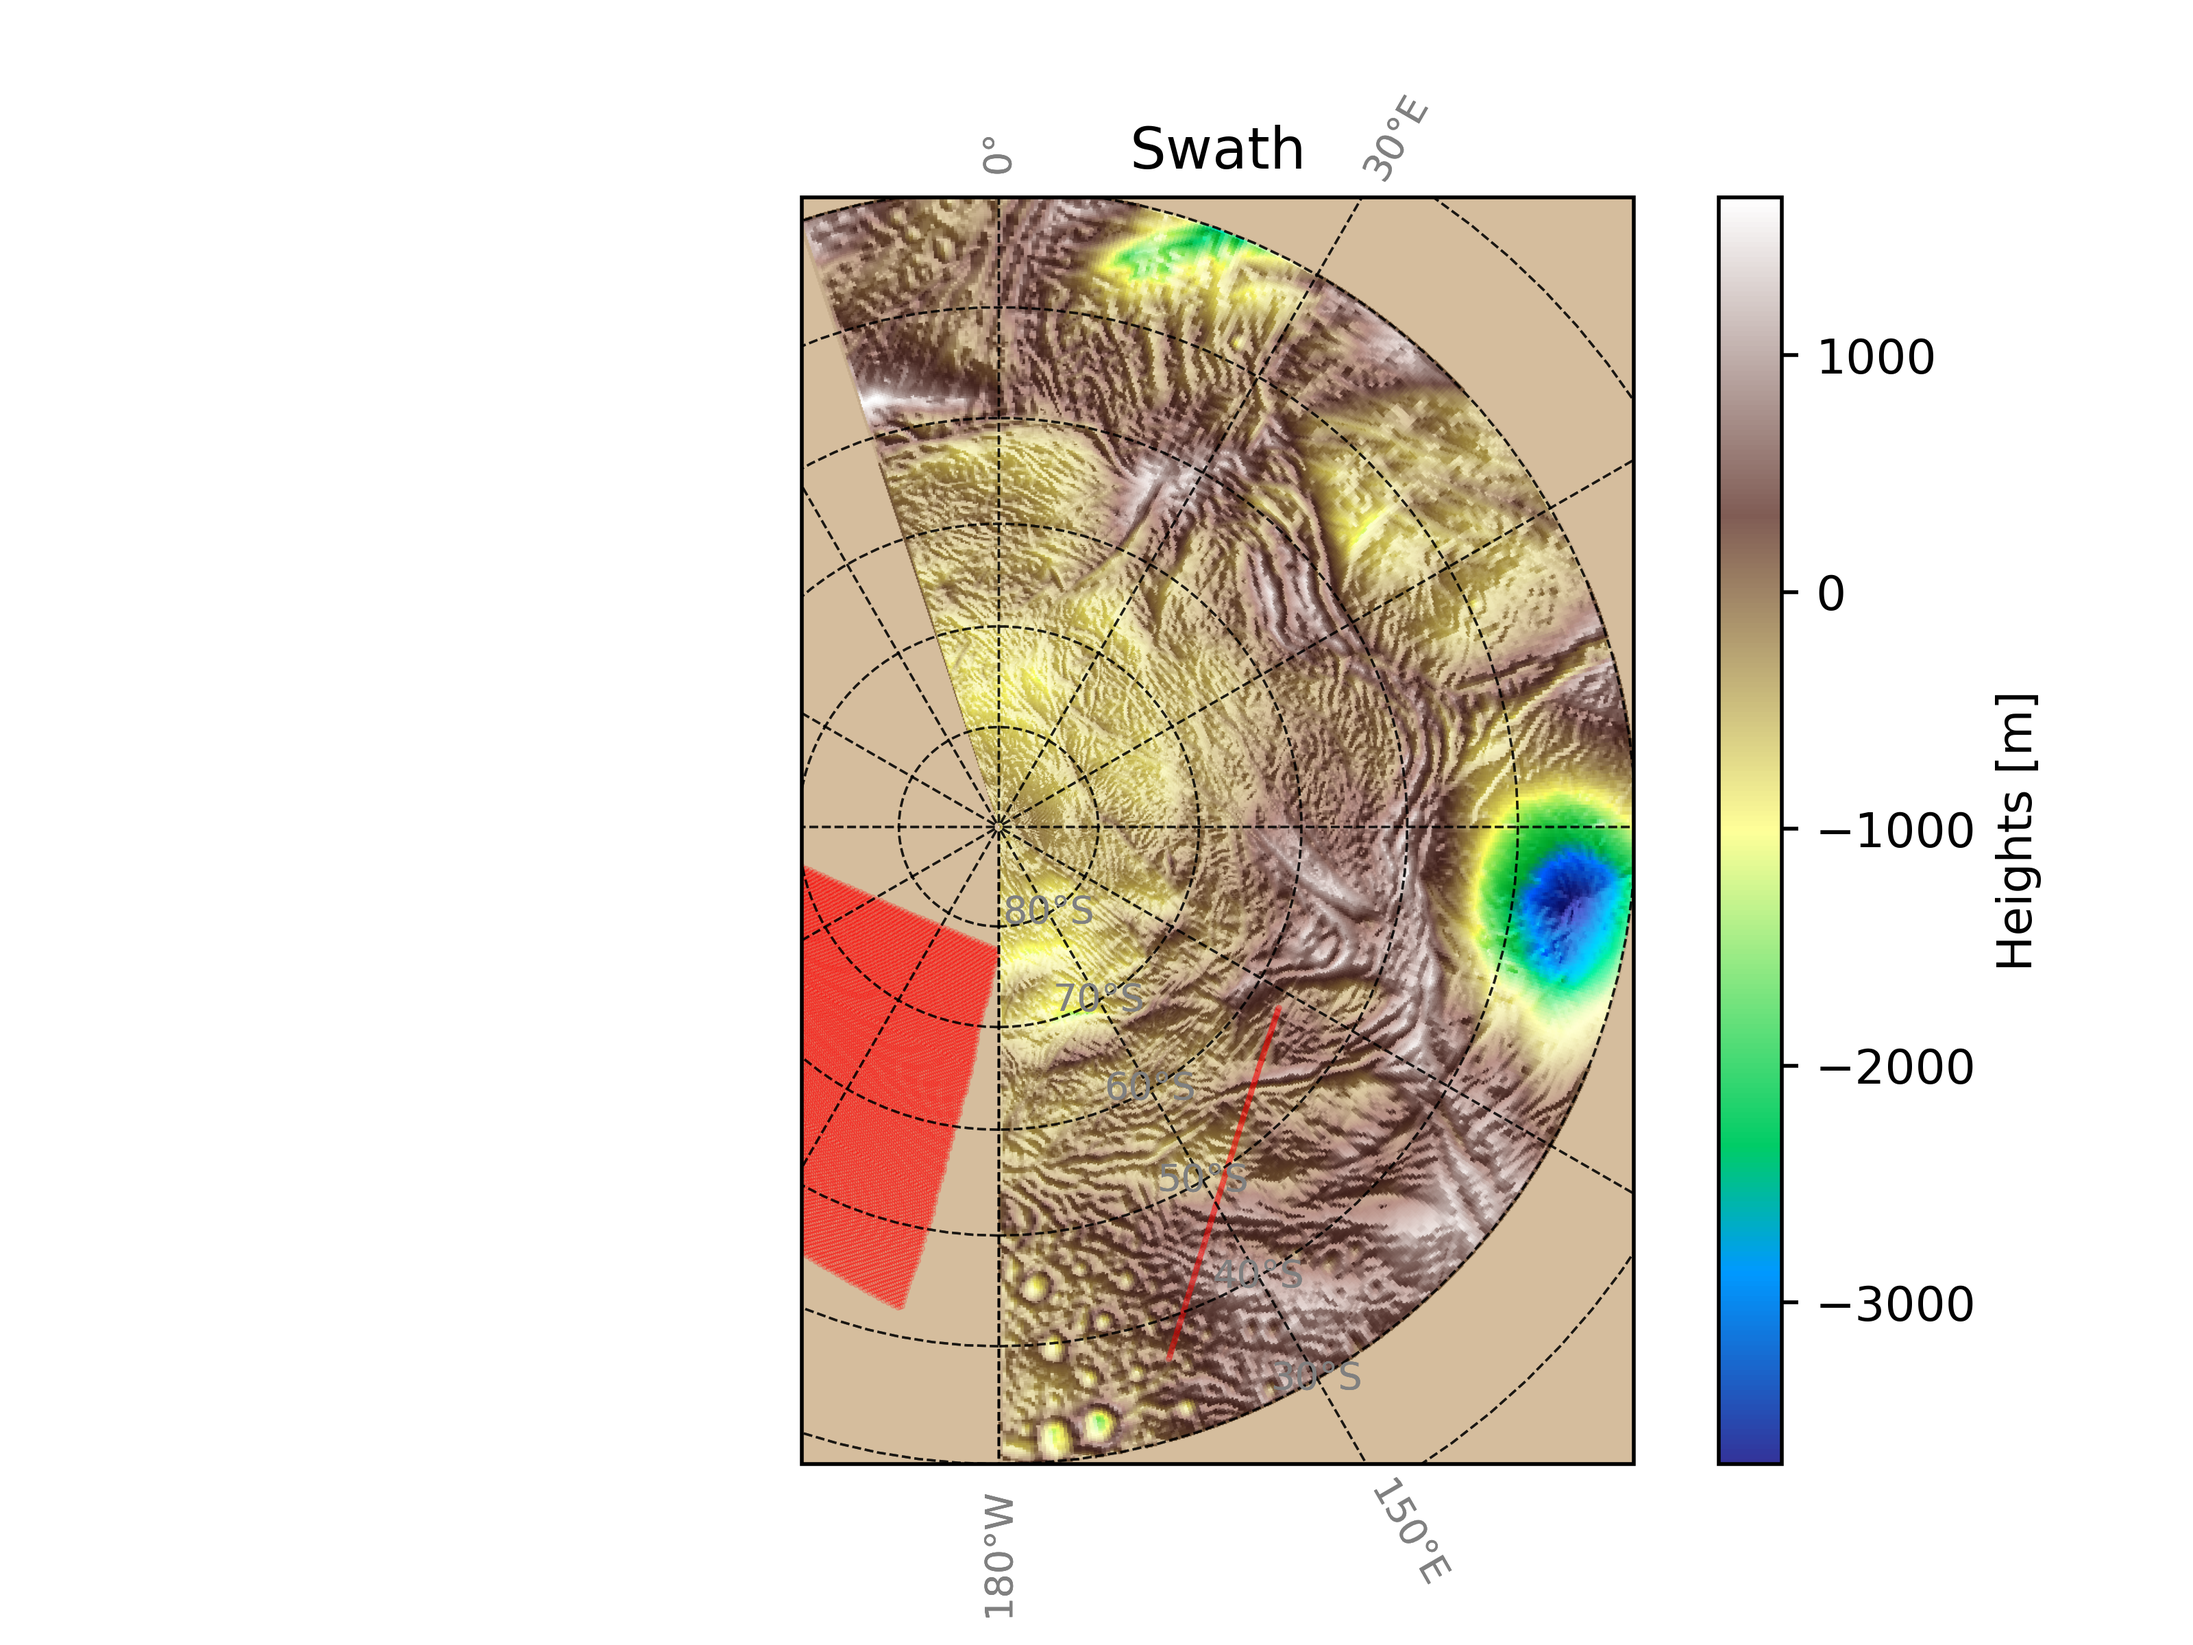
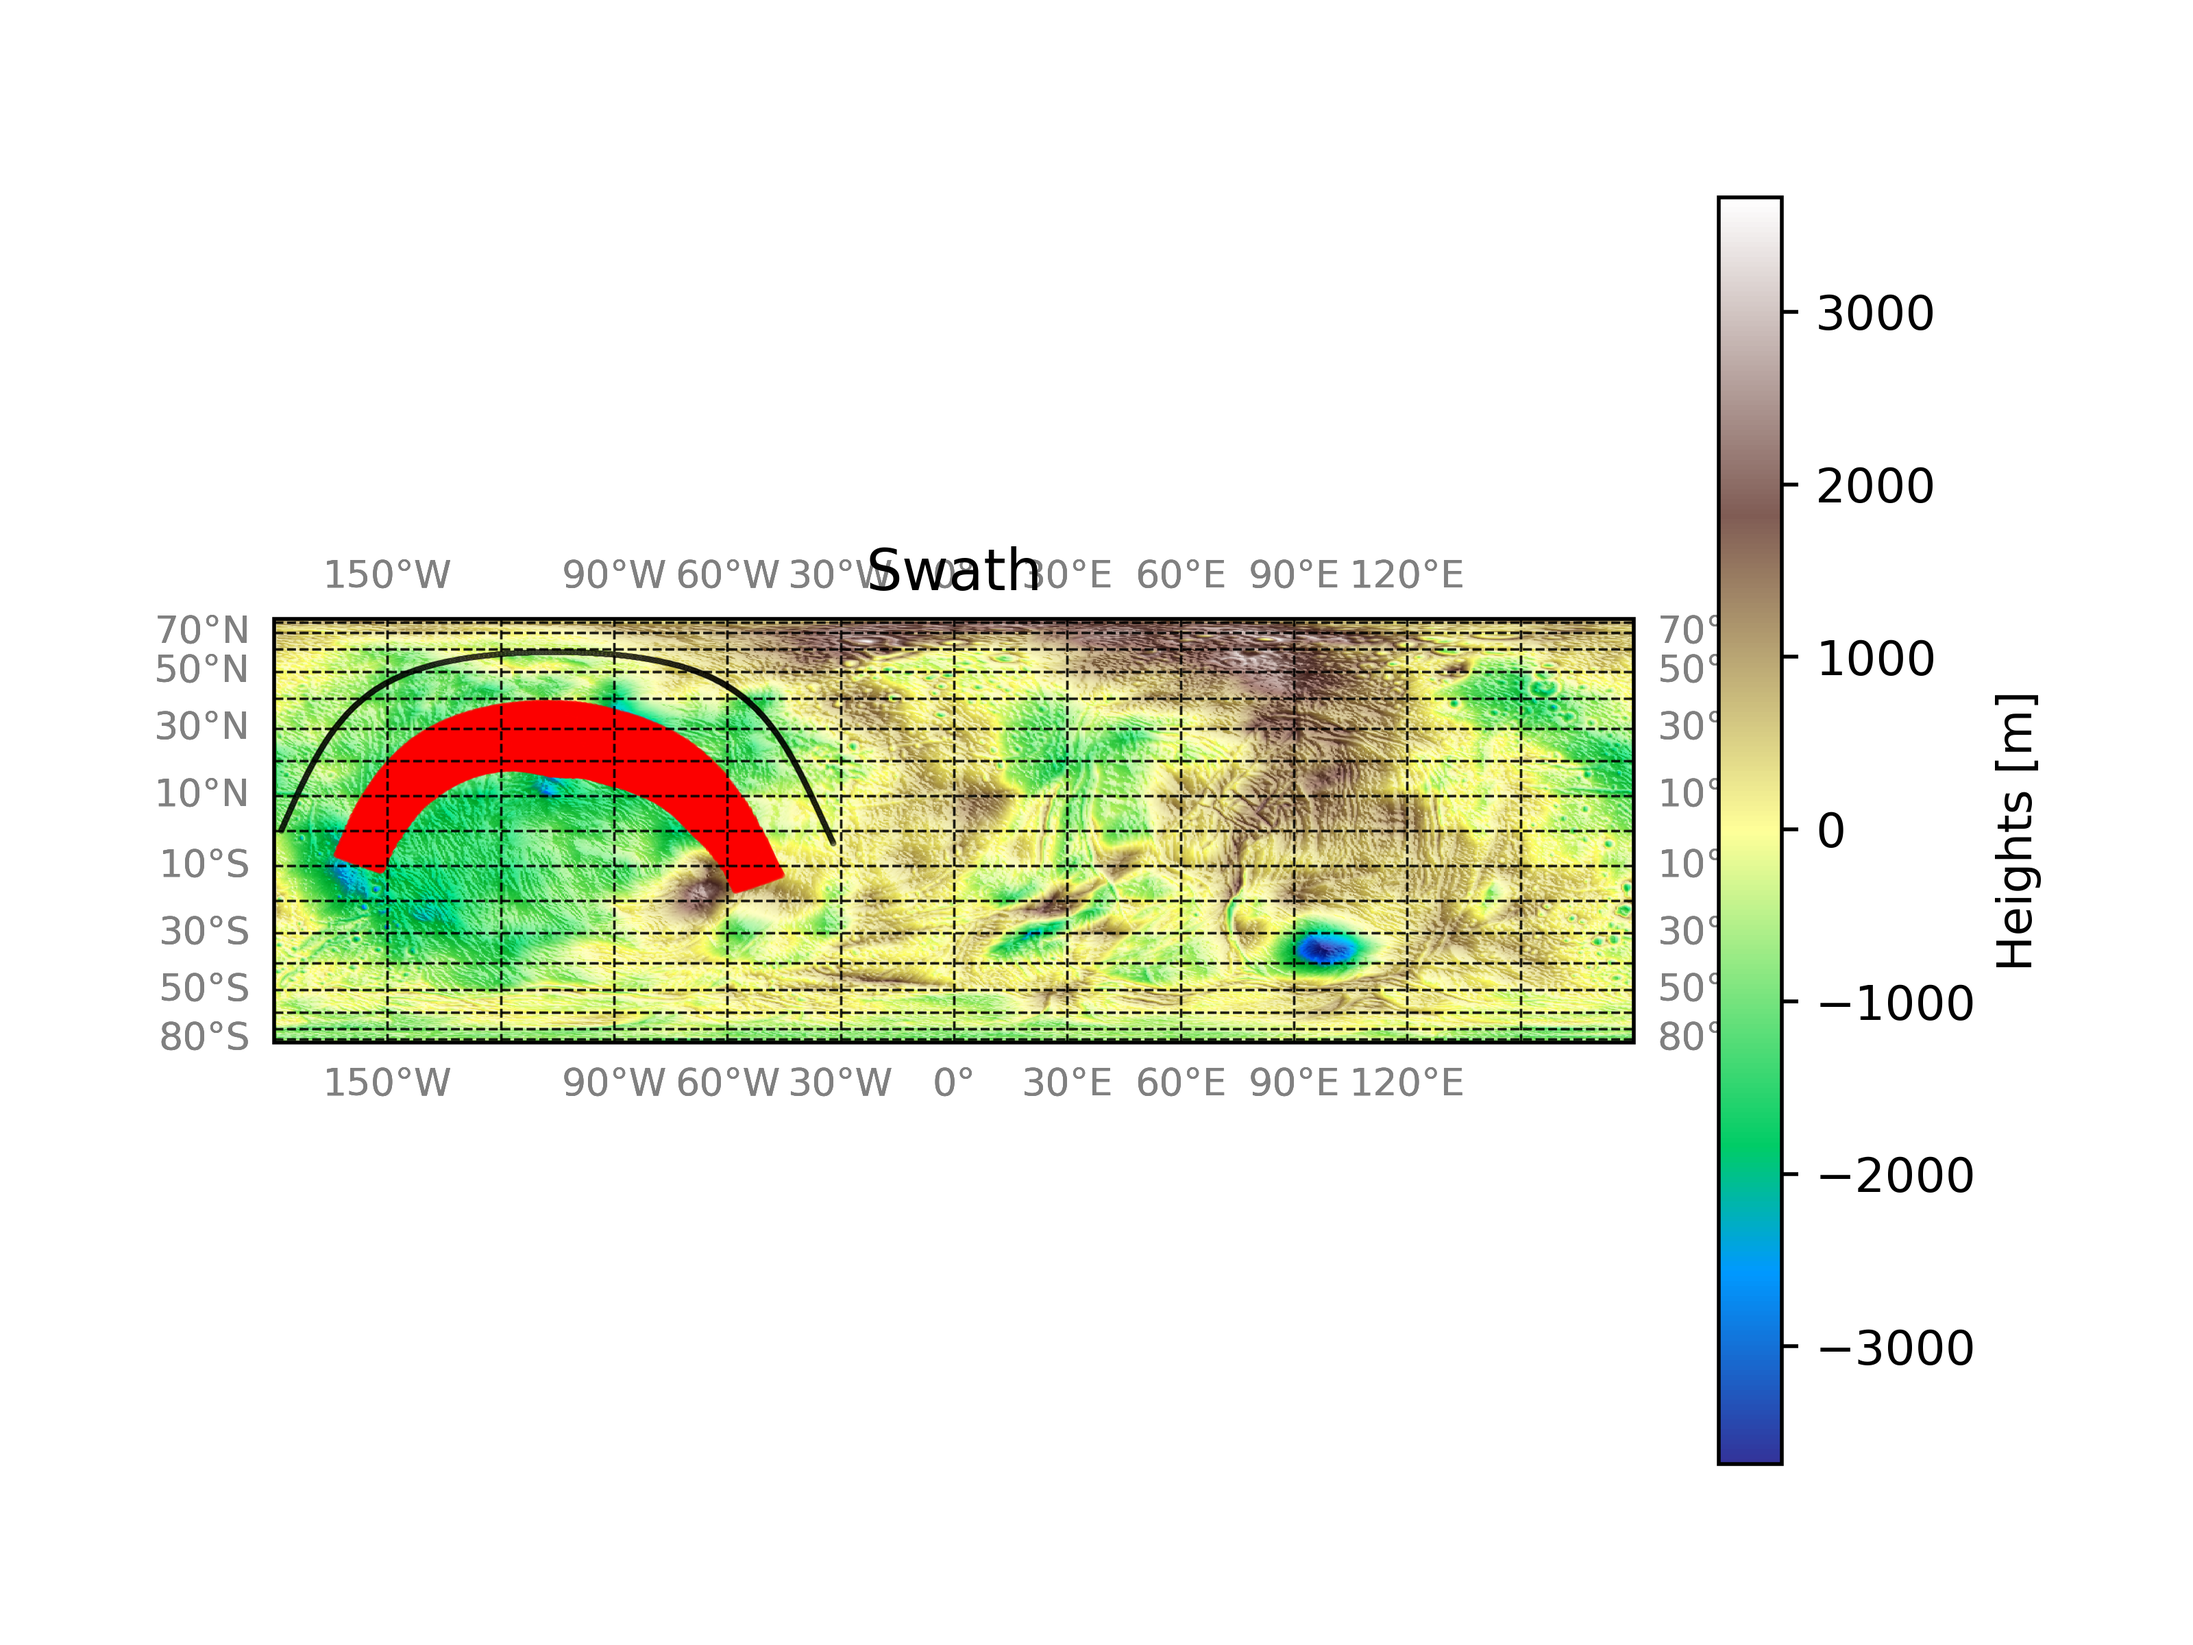
Added limb check for ground swath, working correctly now

diff --git a/pkg/pet/insar/GroundSwath.py b/pkg/pet/insar/GroundSwath.py
@@ -8,7 +8,6 @@
 import pet
 import numpy as np
 import cspyce as spice
-import os
 import matplotlib.pyplot as plt
 from .GroundTarget import GroundTarget
 
@@ -48,8 +47,8 @@ class GroundSwath(pet.component):
         """
 
         # Create list of times to observe at
-        self.time_space = np.arange(instrument.convert_time(time=self.start_time),
-                                    instrument.convert_time(time=self.end_time) +
+        self.time_space = np.arange(instrument.convert_times(times=self.start_time),
+                                    instrument.convert_times(times=self.end_time) +
                                     self.time_interval, self.time_interval)
 
         # Get planet axes
@@ -96,6 +95,9 @@ class GroundSwath(pet.component):
         look_angles = self.get_angles_cartesian(instrument=instrument, times=self.time_space, planet=planet,
                                                 satellite_positions=satellite_positions)
 
+        # Calculate if the positions of the GroundTargets are past the limb point
+        limb_checks = self.check_limbs(satellite_positions=satellite_positions, planet=planet)
+
         # Check the beams for duplicates, look_angles, and relative positions
         for i in range(len(self.swath_beams)):
 
@@ -107,7 +109,7 @@ class GroundSwath(pet.component):
 
                 # Check if the look angle and relative position is correct
                 if ((instrument.start_look_angle < look_angles[i][j] < instrument.end_look_angle)
-                        and (relative_positions[i][j] == "right")):
+                        and (relative_positions[i][j] == "right") and limb_checks[i][j] == 0):
 
                     # Append the groundTarget to azimuthal beam
                     azimuthal_points.append(ground)
@@ -140,6 +142,45 @@ class GroundSwath(pet.component):
             # Replace previous beam with all accepted points
             self.swath_beams[i] = azimuthal_points
 
+    def check_limbs(self, satellite_positions, planet):
+        """
+        Check if all the swath_beam rays from satellite to surface positions intersect the limb ellipse.
+        :param satellite_positions: Array of x, y, z, positions of the satellite [m]
+        :param planet: Planet as target
+        :return: A list of values whether the points on the ground are before or after the limb point.
+        """
+
+        # Get planet axes
+        a, b, c = planet.get_axes()
+
+        # Get the limb ellipses from satellite positions
+        limb_ellipses = spice.edlimb_vector(a=a, b=b, c=c, viewpt=satellite_positions)
+
+        # Get the generating vectors for the SPICE ellipses
+        centers, smajors, sminors = spice.el2cgv_vector(ellipse=limb_ellipses)
+
+        # Get planes generated by spanning vectors
+        planes = spice.psv2pl_vector(point=centers, span1=smajors, span2=sminors)
+
+        # Iterate through the beams
+        intersect_booleans_per_beam = []
+        for i in range(len(self.swath_beams)):
+
+            # Get the surface positions per beam
+            surface_positions = np.asarray([point.get_position() for point in self.swath_beams[i]])
+
+            # Calculate vectors from satellite to point and the satellite's direction
+            vectors_to_sat = satellite_positions[i] - surface_positions
+
+            # Get intersect values
+            intersect_values = spice.inrypl_vector(vertex=surface_positions, dir=vectors_to_sat, plane=planes[i])[0]
+
+            # Append the intersects
+            intersect_booleans_per_beam.append(intersect_values)
+
+        # Return the intersections in a 2D array
+        return intersect_booleans_per_beam
+
     def point_positions_relative_to_satellite(self, satellite_positions, satellite_velocities):
         """
         Determine whether a set of points on the surface of the Earth are to the left or right of the satellite's
@@ -154,6 +195,7 @@ class GroundSwath(pet.component):
         relative_positions_per_beam = []
         for i in range(len(self.swath_beams)):
 
+            # Get surface positions per beam
             surface_positions = np.asarray([point.get_position() for point in self.swath_beams[i]])
 
             # Calculate vectors from satellite to point and the satellite's direction
@@ -202,6 +244,7 @@ class GroundSwath(pet.component):
         # Iterate through the beams
         look_angles_per_beam = []
         for i in range(len(self.swath_beams)):
+            # Get surface positions per beam
             surface_positions = np.asarray([point.get_position() for point in self.swath_beams[i]])
 
             # Get the distance between the satellite and the surface points
@@ -245,13 +288,13 @@ class GroundSwath(pet.component):
                 positions.append(point.get_position())
 
         # Get planet axes
-        a, b, c = self.get_axes()
+        a, b, c = planet.get_axes()
 
         # Create a coordinate conversion object
         convert = pet.ext.conversions(name="conversions", a=a, b=b, c=c)
 
         # Convert positions to geodetic coordinates
-        geodetic_coordinates = convert.geodetic(planet=planet, cartesian_coordinates=positions)
+        geodetic_coordinates = convert.geodetic(cartesian_coordinates=positions)
 
         # Get the fig, ax, globe from the instrument orbit
         fig, ax, globe = instrument.plot_orbit(visualization=visualization, projection=projection,
@@ -260,7 +303,7 @@ class GroundSwath(pet.component):
 
         # Use visualization tool to plot
         fig, ax, globe = visualization.scatter_plot(fig=fig, ax=ax, globe=globe,
-                                                    geodetic_coordinates=geodetic_coordinates[:, :3])
+                                                    geodetic_coordinates=geodetic_coordinates[:, :3], color='red')
 
         # Return fig, ax, globe if necessary
         if return_fig:
@@ -270,6 +313,6 @@ class GroundSwath(pet.component):
         ax.set_title('Swath')
 
         # Save the plot
-        plt.savefig(fname=visualization.folder_path, format='png', dpi=500)
+        plt.savefig(fname=visualization.folder_path + '/swath.png', format='png', dpi=500)
 
 # end of file

diff --git a/pkg/pet/instruments/Nightingale.py b/pkg/pet/instruments/Nightingale.py
@@ -135,7 +135,7 @@ class Nightingale(pet.component, family="pet.instruments.nightingale", implement
         """
 
         # Generate the ephemeris times to look through for 1 second of temporal spacing
-        ets = [self.convert_time(time=start_time) + i for i in range(162000)]  # 45 hour search
+        ets = [self.convert_times(times=start_time)[0] + i for i in range(162000)]  # 45 hour search
 
         # Get the positions from the states
         positions, velocities = self.get_states(planet=planet, times=ets)
@@ -155,7 +155,7 @@ class Nightingale(pet.component, family="pet.instruments.nightingale", implement
         for i in range(len(geodetic_coordinates) - 1):
             # If the latitude cutoff is found, attach the time of the cutoff
             if (geodetic_coordinates[i, 0] < latitude_cutoff) and (geodetic_coordinates[i + 1, 0] > latitude_cutoff):
-                times.append(self.convert_utc(ets[i]))
+                times.append(self.convert_utcs(ets[i])[0])
 
         # Return the times
         return times
@@ -174,14 +174,14 @@ class Nightingale(pet.component, family="pet.instruments.nightingale", implement
         """
 
         # Create list of times to observe at
-        times = np.arange(self.convert_time(time=start_time), self.convert_time(time=end_time) + time_interval,
+        times = np.arange(self.convert_times(times=start_time), self.convert_times(times=end_time) + time_interval,
                           time_interval)
 
         # Get the positions and velocities
         positions, velocities = self.get_states(planet, times)
 
         # Get planet axes
-        a, b, c = self.get_axes()
+        a, b, c = planet.get_axes()
 
         # Create a coordinate conversion object
         convert = pet.ext.conversions(name="conversions", a=a, b=b, c=c)
@@ -195,7 +195,7 @@ class Nightingale(pet.component, family="pet.instruments.nightingale", implement
 
         # Use visualization tool to plot
         fig, ax, globe = visualization.scatter_plot(fig=fig, ax=ax, globe=globe,
-                                                    geodetic_coordinates=geodetic_coordinates[:, :3])
+                                                    geodetic_coordinates=geodetic_coordinates[:, :3], color='black')
 
         # Return fig, ax, globe if necessary
         if return_fig:
@@ -205,6 +205,6 @@ class Nightingale(pet.component, family="pet.instruments.nightingale", implement
         ax.set_title('Orbit')
 
         # Save the plot
-        plt.savefig(fname=visualization.folder_path, format='png', dpi=500)
+        plt.savefig(fname=visualization.folder_path + '/orbit.png', format='png', dpi=500)
 
 # end of file

diff --git a/tests/pet.pkg/inSAR/groundSwath.py b/tests/pet.pkg/inSAR/groundSwath.py
@@ -15,20 +15,23 @@ fm.furnsh(names_list=["cas_enceladus_ssd_spc_1024icq_v1.bds", "pck00011_n0066.tp
                       "insar_6stride_26d_v7_seo.bsp", "latest_leapseconds.tls"])
 
 # Make an instrument
-instrument = pet.instruments.nightingale(name="nightingale", body_id=-303, start_look_angle=25, end_look_angle=35)
+instrument = pet.instruments.nightingale(name="nightingale", body_id=-303, start_look_angle=20, end_look_angle=30)
 
 # Make a planet
 planet = pet.planets.enceladus(name="enceladus")
 
+# Get times
+times = instrument.get_five_tracks(planet)
+
 # Make a ground swath
-gs = pet.insar.groundSwath(name="1", start_time="2046 DEC 20 15:10:40.134", end_time="2046 DEC 20 15:50:40.134",
+gs = pet.insar.groundSwath(name="1", start_time=times[1], end_time=times[2],
                            time_interval=10, ground_resolution=2000, planet=planet, instrument=instrument)
 
 # Make a projection
-projection = pet.projections.biaxialPlanar(name="biaxial planar", central_latitude=-90)
+projection = pet.projections.biaxialCylindrical(name="biaxial cylindrical")
 
 # Make a visualization tool
-visualization = pet.visualization.cartopyViz(name="cartopy tool", north_extent=-30,
+visualization = pet.visualization.cartopyViz(name="cartopy tool",
                                              folder_path="/home/eitanrapa/Documents/projects/pet/figs")
 
 # Plot

diff --git a/pkg/pet/visualization/CartopyViz.py b/pkg/pet/visualization/CartopyViz.py
@@ -102,13 +102,14 @@ class CartopyViz(pet.component):
         # Return with formatting
         return fig, ax, globe
 
-    def scatter_plot(self, fig, ax, globe, geodetic_coordinates):
+    def scatter_plot(self, fig, ax, globe, geodetic_coordinates, color='black'):
         """
         Plot a scatter of values such as a swath
         :param fig: Matplotlib fig
         :param ax: Matplotlib ax
         :param globe: Cartopy globe
         :param geodetic_coordinates: geodetic coordinates to plot
+        :param color: color of scatterplot
         """
 
         # Set the extent
@@ -121,7 +122,7 @@ class CartopyViz(pet.component):
 
         # Plot points on the map
         ax.scatter(longitudes, latitudes, transform=ccrs.PlateCarree(globe=globe),
-                   color='red', marker='o', s=0.1, alpha=0.25)
+                   color=color, marker='o', s=0.1, alpha=0.25)
 
         # Add latitude and longitude lines
         gl = ax.gridlines(crs=ccrs.PlateCarree(globe=globe), linewidth=0.5, color='black', alpha=0.5,

diff --git a/tests/pet.pkg/instruments/nightingale.py b/tests/pet.pkg/instruments/nightingale.py
@@ -29,7 +29,7 @@ visualization = pet.visualization.cartopyViz(name="cartopy tool", north_extent=-
 
 # Plot the orbit
 ins.plot_orbit(visualization=visualization, start_time="2046 DEC 20 15:10:40.134", end_time="2046 DEC 22 03:10:40.134",
-               planet=planet, projection=projection, north_extent=-30)
+               planet=planet, projection=projection)
 
 fm.clear()
 

diff --git a/pkg/pet/planets/Enceladus.py b/pkg/pet/planets/Enceladus.py
@@ -124,6 +124,6 @@ class Enceladus(pet.component, family="pet.planets.enceladus", implements=pet.pr
         ax.set_title('Topography')
 
         # Save the plot
-        plt.savefig(fname=visualization.folder_path, format='png', dpi=500)
+        plt.savefig(fname=visualization.folder_path + '/topography.png', format='png', dpi=500)
 
 # end of file
